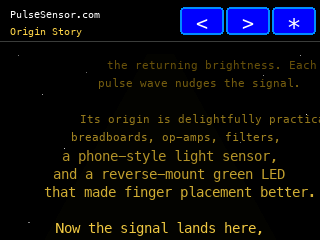
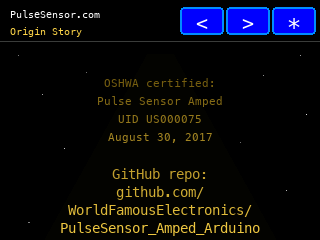
Add Origin Story OSHWA and repo details 20260524-093051-EDT

diff --git a/tools/render_app3_origin_crawl_mock.py b/tools/render_app3_origin_crawl_mock.py
@@ -36,37 +36,66 @@ CRAWL_LINES = [
     "FINDS THE BEAT",
     "",
     "From Brooklyn shops",
-    "and Parsons classrooms,",
-    "Joel Murphy and Yury Gitman",
-    "built an open hardware",
-    "heart-rate sensor",
+    "and Parsons classes,",
+    "Joel Murphy",
+    "and Yury Gitman",
+    "built open hardware",
+    "heart-rate sensing",
     "for makers.",
     "",
-    "World Famous Electronics",
-    "began as a Kickstarter",
+    "World Famous",
+    "Electronics began",
+    "as a Kickstarter",
     "project in 2012,",
     "then kept making",
-    "PulseSensor and teaching",
-    "it in public.",
+    "PulseSensor",
+    "and teaching it",
+    "in public.",
     "",
-    "The sensor shines green light",
-    "into capillary tissue and watches",
-    "the returning brightness. Each",
-    "pulse wave nudges the signal.",
+    "OSHWA certified:",
+    "Pulse Sensor Amped",
+    "UID US000075",
+    "August 30, 2017",
     "",
-    "Its origin is delightfully practical:",
-    "breadboards, op-amps, filters,",
-    "a phone-style light sensor,",
-    "and a reverse-mount green LED",
-    "that made finger placement better.",
+    "GitHub repo:",
+    "github.com/",
+    "WorldFamousElectronics/",
+    "PulseSensor_Amped_Arduino",
     "",
-    "Now the signal lands here,",
-    "on a Cheap Yellow Display:",
-    "open, tiny, and alive with code.",
+    "Repo likes (stars):",
+    "249 stars, 207 forks",
+    "as of May 24, 2026",
     "",
-    "Send us your feature requests,",
+    "The sensor shines",
+    "green light into",
+    "capillary tissue",
+    "and watches the",
+    "returning brightness.",
+    "Each pulse wave",
+    "nudges the signal.",
+    "",
+    "Its origin is",
+    "delightfully practical:",
+    "breadboards,",
+    "op-amps, filters,",
+    "a phone-style",
+    "light sensor,",
+    "and a reverse-mount",
+    "green LED",
+    "made finger placement",
+    "better.",
+    "",
+    "Now the signal",
+    "lands here,",
+    "on a Cheap Yellow",
+    "Display:",
+    "open, tiny, alive",
+    "with code.",
+    "",
+    "Send feature requests,",
     "firmware update ideas,",
-    "and wild classroom wishes.",
+    "and wild classroom",
+    "wishes.",
     "",
     "Thanks for supporting",
     "PulseSensor since 2012.",
@@ -202,7 +231,7 @@ contact = Image.new("RGB", (640, contact_rows * 240), BLACK)
 for index, (filename, _, _, _) in enumerate(frames):
     frame = Image.open(OUT_DIR / filename)
     x = 0 if index % 2 == 0 else 320
-    y = 0 if index < 2 else 240
+    y = (index // 2) * 240
     contact.paste(frame, (x, y))
 contact_path = OUT_DIR / "app3-origin-contact-sheet.png"
 contact.save(contact_path)

diff --git a/tools/check_app_shell.py b/tools/check_app_shell.py
@@ -109,6 +109,10 @@ required_large_controls = {
     "APP3_ORIGIN_CRAWL_LINE_COUNT": "App 3 origin crawl copy is missing",
     "Origin Story": "App 3 is not labeled Origin Story",
     "Send feature requests,": "App 3 origin crawl is missing the feature-request ask",
+    "UID US000075": "Origin Story crawl is missing the OSHWA registration number",
+    "August 30, 2017": "Origin Story crawl is missing the OSHWA certification date",
+    "PulseSensor_Amped_Arduino": "Origin Story crawl is missing the GitHub repo",
+    "249 stars, 207 forks": "Origin Story crawl is missing the GitHub stats note",
     "#define APP3_CRAWL_TEXT_SIZE 2": "Origin Story crawl text is not enlarged",
     "TFT_eSprite app3CrawlSprite": "Origin Story crawl is missing an offscreen sprite",
     "ensureApp3CrawlSprite": "Origin Story crawl sprite is not managed for rotation changes",

diff --git a/START_HERE_NEXT_CHAT.md b/START_HERE_NEXT_CHAT.md
@@ -23,13 +23,13 @@ Current local working path from the 2026-05-24 continuation:
 The branch adds an app shell around the Pulse dashboard:
 
 - App 1 is the Pulse dashboard.
-- App 2 and App 3 are animated placeholders.
+- App 2 is an animated placeholder; App 3 is the `Origin Story` crawl with programmatic fanfare.
 - Settings includes Volume, Rotation, Display, WiFi/Bluetooth placeholders, LED Control, color swatches, About, Version, and Firmware date.
 - Volume now lives in Settings only.
 - Rotation now lives in Settings only; the persistent top rotate button was removed.
 - App navigation remains persistent as a three-button previous/next/Settings nav bar, with mode-aware outlines/fills and no top-bar rotate control.
 - Display mode cycles through `M DARK`, `M LIGHT`, `C DARK`, and `C LIGHT`.
-- Firmware version is `0.4.5-origin-visible`.
+- Firmware version is `0.4.6-origin-oshw`.
 - Firmware date shown in Settings is `2026-05-24`.
 - Guard script: `python3 tools/check_app_shell.py`.
 
@@ -46,6 +46,8 @@ The branch adds an app shell around the Pulse dashboard:
 2026-05-24 09:22:21 EDT Origin Story hardware pass: the crawl text was too small and direct full-area redraws caused heavy flicker on the CYD. Firmware now uses 2x crawl text, reflowed shorter lines, and an offscreen `TFT_eSprite` for the scrolling content area before pushing each frame to the display. Guard script tracks the enlarged text and sprite rendering.
 
 2026-05-24 09:25:59 EDT Origin Story blank-screen fix: user reported Origin Story became a black screen. Firmware now uses an 8-bit crawl sprite to reduce memory, starts the first large text line inside the visible area immediately, and includes a direct large-text fallback renderer if sprite allocation fails. This version was built and flashed for hardware review.
+
+2026-05-24 09:30:51 EDT Origin Story provenance pass: added Pulse Sensor Amped OSHWA certification details (`US000075`, certified August 30, 2017), the `WorldFamousElectronics/PulseSensor_Amped_Arduino` GitHub repo, and a dated repo-love line showing `249` stars and `207` forks as of May 24, 2026. Firmware version is now `0.4.6-origin-oshw`.
 
 2026-05-24 hardware note: the app-shell firmware was built and flashed to `/dev/cu.usbserial-3120` on the connected ESP32-D0WD-V3 CYD, MAC `f4:65:0b:a9:f2:e8`. Touch ergonomics fixes changed compact toolbar routing to split adjacent app-nav/rotate hit targets at their midpoints, enlarged the visible app-nav and rotate controls from 22x22 to 44x28, converted Settings to a scrollable large-text row list with bigger row-local touch controls, widened Settings bottom scroll buttons to split the full bottom bar, changed Settings rows to alternating yellow/green Pulse dashboard backgrounds with black text, and redesigned App 1 metric tiles to use the same yellow/green high-contrast language.
 

diff --git a/CODEX_HANDOFF.md b/CODEX_HANDOFF.md
@@ -32,12 +32,12 @@ The current branch wraps the one-screen Pulse dashboard in a small app shell:
 
 - App 1: Pulse dashboard.
 - App 2: bouncing `your app here`.
-- App 3: bouncing `your app here too`.
+- App 3: `Origin Story` crawl with programmatic fanfare.
 - Settings: Volume, Rotation, Display, WiFi placeholder, Bluetooth placeholder, LED Control, LED color swatches, About, Version, and Firmware date.
 - Volume is Settings-only and no longer appears in the top toolbar.
 - Rotation is Settings-only and no longer appears as a persistent top-toolbar button.
 - App navigation remains persistent as a three-button previous/next/Settings nav bar, with mode-aware outlines/fills and no top-toolbar rotate button.
-- Firmware version for this branch: `0.4.5-origin-visible`.
+- Firmware version for this branch: `0.4.6-origin-oshw`.
 - Firmware date shown in Settings: `2026-05-24`.
 - Guard script: `python3 tools/check_app_shell.py`.
 
@@ -54,6 +54,8 @@ The current branch wraps the one-screen Pulse dashboard in a small app shell:
 2026-05-24 09:22:21 EDT Origin Story hardware pass: user reported the scrolling text was much too small and the page flickered heavily. The crawl now uses 2x text with shorter CYD-width lines and renders the animated content area into a `TFT_eSprite`, then pushes the composed sprite to the display to avoid direct clear/redraw flicker. This is flashed for hardware review.
 
 2026-05-24 09:25:59 EDT Origin Story blank-screen fix: user reported the Origin Story page became totally black. Likely causes were the first large line starting below the visible content area and/or full-size sprite allocation failure. Firmware now uses an 8-bit sprite, starts text visibly on the first frame, and falls back to direct large-text rendering if sprite allocation fails.
+
+2026-05-24 09:30:51 EDT Origin Story provenance pass: the crawl now includes Pulse Sensor Amped OSHWA registration `US000075`, certification date August 30, 2017, the `WorldFamousElectronics/PulseSensor_Amped_Arduino` GitHub repo, and a dated repo-love note showing `249` stars and `207` forks as of May 24, 2026.
 
 2026-05-24 continuation: the compact toolbar hit testing was tuned for real CYD touch ergonomics. App nav and rotate still look grouped, but their padded tap regions are now split at the midpoint between adjacent button centers, preventing the previous overlap where taps near rotate could be claimed by Settings or taps near nav boundaries could choose the earlier button. The same midpoint approach is used for the Settings color swatches.
 

diff --git a/CHANGELOG.md b/CHANGELOG.md
@@ -1,6 +1,7 @@
 # CYD App Launcher — Student Version — Changelog
 
 ## Unreleased
+- 2026-05-24 09:30:51 EDT Origin Story provenance pass: added OSHWA certification details for Pulse Sensor Amped (`US000075`, certified August 30, 2017), the `WorldFamousElectronics/PulseSensor_Amped_Arduino` GitHub repo, and current repo-love stats (`249` stars, `207` forks as of May 24, 2026); firmware version is `0.4.6-origin-oshw`.
 - 2026-05-24 09:25:59 EDT Origin Story blank-screen fix: changed the crawl sprite to lower-memory 8-bit color, made the first crawl line visible immediately, and added a direct large-text fallback renderer if sprite allocation fails; firmware version is `0.4.5-origin-visible`.
 - 2026-05-24 09:22:21 EDT Origin Story hardware pass: enlarged the scrolling crawl text to 2x, reflowed the copy into CYD-width lines, moved the animated crawl into an offscreen `TFT_eSprite` to reduce direct clear/redraw flicker, and bumped firmware version to `0.4.4-origin-readable`.
 - 2026-05-24 09:17:17 EDT App 3 naming pass: changed the on-device and mockup title from `APP 3 ORIGIN CRAWL` to `Origin Story` to fit the science-fiction app theme.
